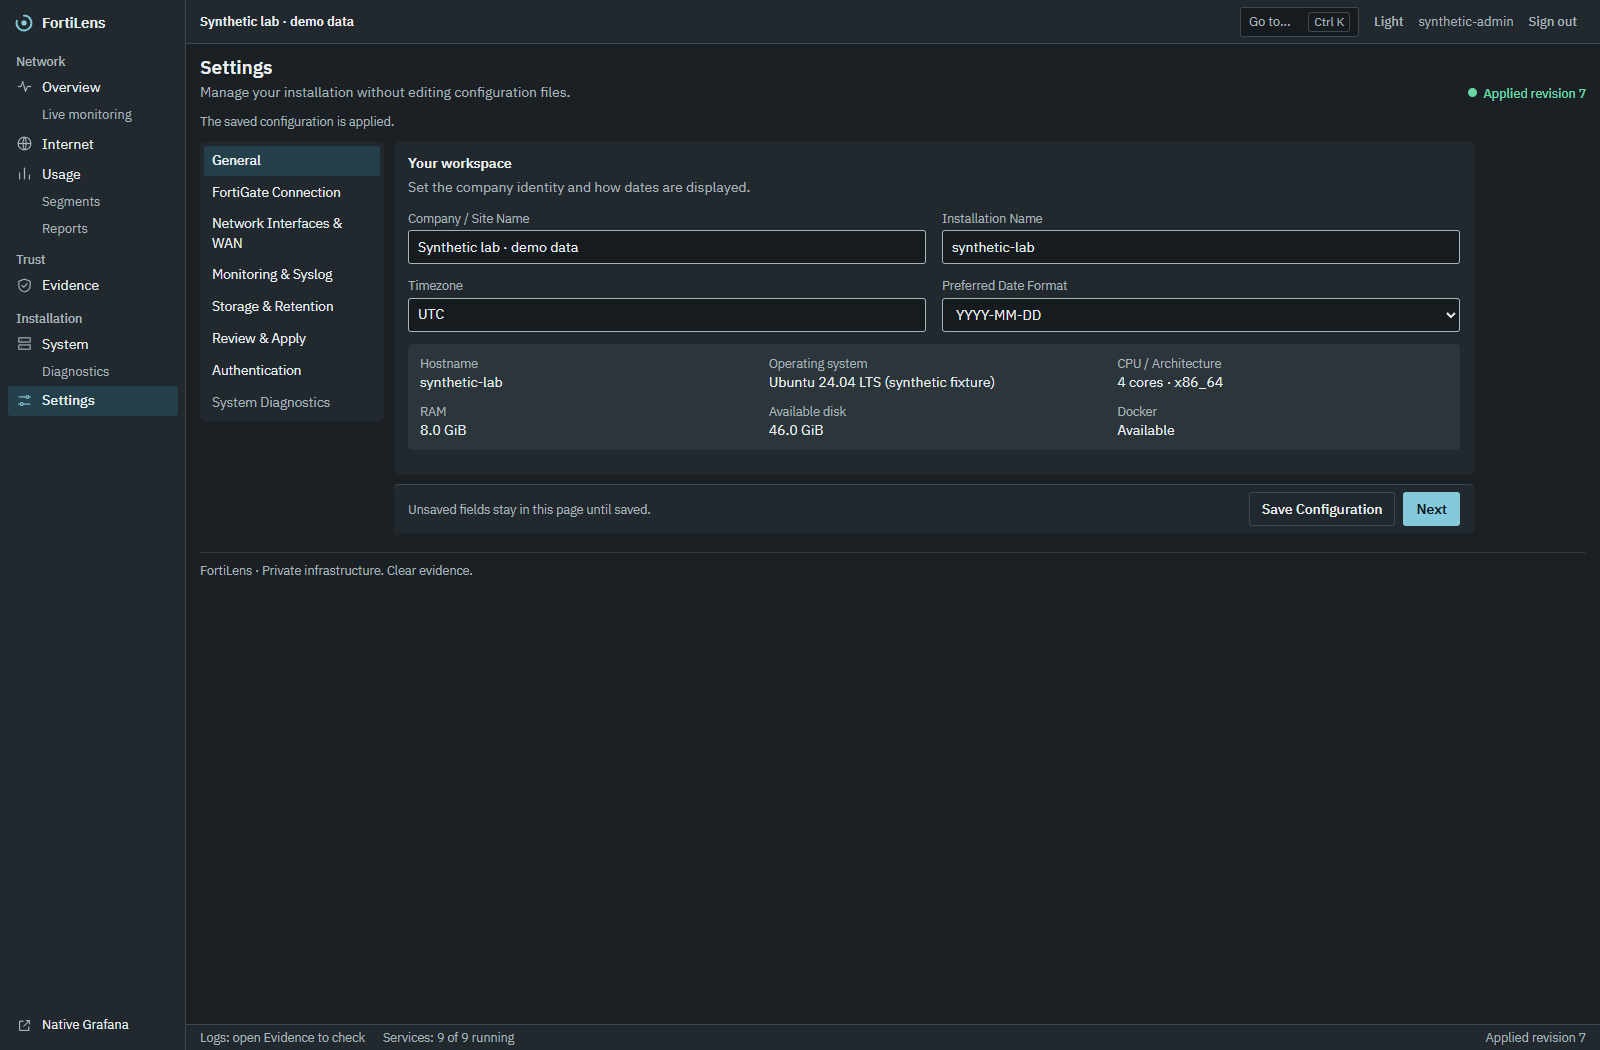
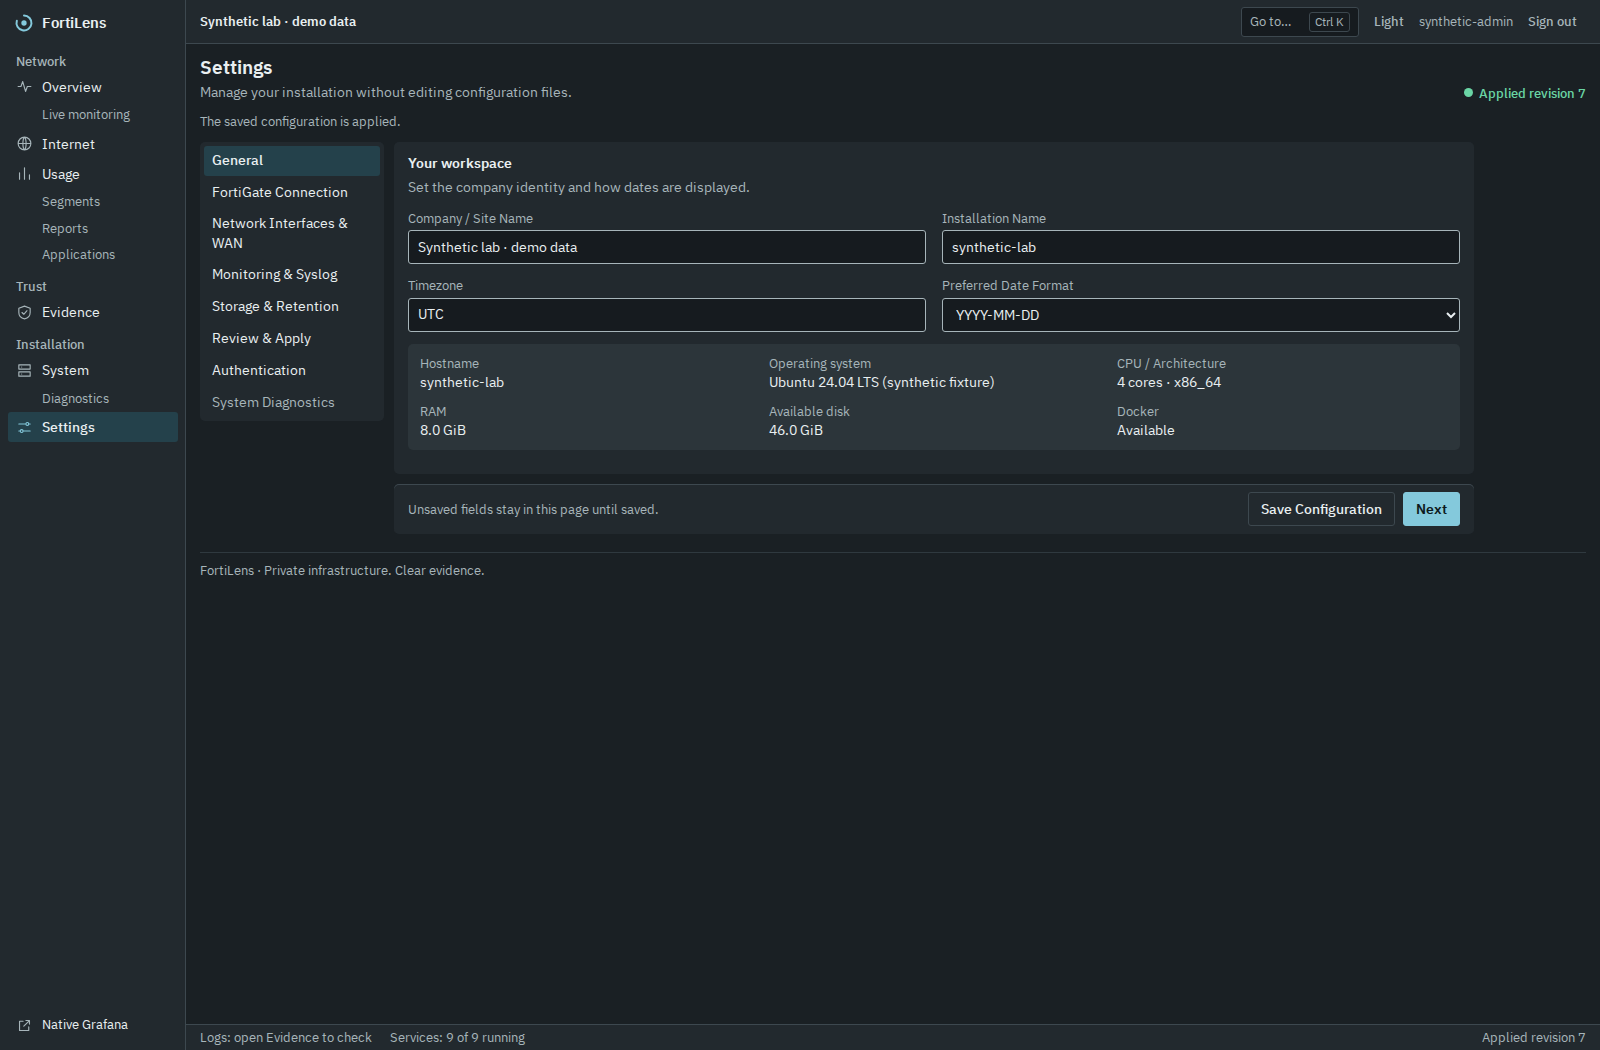
Refresh README, roadmap and screenshots for Applications
- README answers "which applications" and lists This year; application
  usage is no longer described as planned. Compact storage wording matches
  the current default for new databases.
- Roadmap marks application usage shipped and repository settings in place.
- Screenshot fixtures add Applications and the interface inventory and use
  the VLAN key format the engine produces; all captures are regenerated and
  16-applications.png is added (synthetic data only).
- A failed Applications request shows its error again instead of throwing
  on a removed panel.
- Add a code of conduct; include it and the new capture in the full release.

diff --git a/portable/reporting.html b/portable/reporting.html
@@ -305,7 +305,7 @@ function riskKind(risk){return risk==='critical'||risk==='high'?'bad':risk==='el
 function appSelection(){const s=state.apps||(state.apps={});return s}
 function appsTitle(){const s=appSelection();return s.app!==undefined?(s.app||'Unidentified')+' — devices':s.category!==undefined?(s.category||'Uncategorized')+' — devices':'Devices'}
 function selectApplications(app,category){const s=appSelection();s.app=app;s.category=category;loadApplications()}
-async function loadApplications(){const sequence=state.appsSequence=(state.appsSequence||0)+1;const s=appSelection();let q;try{q=params()}catch(e){message(errorText(e));return}q.delete('search');if(s.app!==undefined)q.set('app',s.app);if(s.category!==undefined)q.set('category',s.category);try{const r=await api('/api/applications?'+q);if(sequence!==state.appsSequence||!state.auth)return;renderApplications(r)}catch(e){if(sequence!==state.appsSequence)return;for(const id of ['apps-body','categories-body','apps-devices-body'])$(id).replaceChildren();$('apps-empty').hidden=false;$('apps-devices').hidden=true;message(errorText(e))}}
+async function loadApplications(){const sequence=state.appsSequence=(state.appsSequence||0)+1;const s=appSelection();let q;try{q=params()}catch(e){message(errorText(e));return}q.delete('search');if(s.app!==undefined)q.set('app',s.app);if(s.category!==undefined)q.set('category',s.category);try{const r=await api('/api/applications?'+q);if(sequence!==state.appsSequence||!state.auth)return;renderApplications(r)}catch(e){if(sequence!==state.appsSequence)return;for(const id of ['apps-body','categories-body','apps-chart','apps-stats'])$(id).replaceChildren();$('apps-empty').hidden=false;message(errorText(e))}}
 const appColors=['#84c9dc','#6ad5a5','#efc35c','#ff9087','#b39ddb','#f48fb1','#90a4ae','#ffb74d','#80cbc4','#c5e1a5'];
 const categoryNames={unscanned:'Not inspected',unknown:'Unknown category'};
 function percent(part,whole){return whole?(100*part/whole).toFixed(part/whole<0.1?1:0)+'%':'—'}

diff --git a/tools/release.py b/tools/release.py
@@ -50,6 +50,7 @@ PUBLIC_FILES = (
     ".github/workflows/release.yml",
     "AGENTS.md",
     "CHANGELOG.md",
+    "CODE_OF_CONDUCT.md",
     "CONTRIBUTING.md",
     "LICENSE",
     "README.md",
@@ -118,6 +119,7 @@ PUBLIC_FILES = (
     "docs/design/screenshots/12-sign-in.png",
     "docs/design/screenshots/14-overview-narrow.png",
     "docs/design/screenshots/15-usage-narrow.png",
+    "docs/design/screenshots/16-applications.png",
     "tools/release.py",
     "tools/check_repository.py",
     "tools/capture_screenshots.cjs",

diff --git a/README.md b/README.md
@@ -37,8 +37,9 @@ your own server, with your own credentials and data.
 |---|---|
 | Are my Internet links healthy, and were they healthy earlier? | **Overview** and **Internet** show SLA state, latency, jitter, packet loss, physical state and observed history. |
 | Which device used the most, in which direction? | **Usage** searches endpoints and opens each device's daily and monthly history. |
-| How much did each VLAN use? | **Segments** compares exact VLAN and interface mappings. |
-| What was the total for a period? | **Reports** covers Today, rolling 7 days, this month, recent 5 minutes or a custom range. |
+| How much did each VLAN use? | **Segments** compares exact VLAN and interface mappings, and names VLANs with no received records. |
+| Which applications used the Internet, and which devices used them? | **Applications** groups recorded usage by FortiGate Application Control label and category, with GenAI and risk filters. |
+| What was the total for a period? | **Reports** covers Today, rolling 7 days, this month, this year, recent 5 minutes or a custom range. |
 | Can I trust these numbers? | **Evidence** shows collection gaps, pending counters and identity limits. |
 | What is happening right now, in detail? | **Live monitoring** opens the native Grafana dashboard. |
 | Is the installation itself working? | **System**, **Diagnostics** and **Settings** cover services, collection and reviewed configuration changes. |
@@ -47,7 +48,11 @@ Usage figures come from received accounting records. Missing records never becom
 zero traffic or a confirmed outage, and totals are not complete billing figures.
 
 <details>
-<summary>See Usage, Reports and Internet screenshots</summary>
+<summary>See Applications, Usage, Reports and Internet screenshots</summary>
+
+![Applications showing labelled usage, the largest named applications and filters](docs/design/screenshots/16-applications.png)
+
+*Applications: usage by Application Control label, with protocol-only traffic kept apart. Shipped UI with synthetic fixtures.*
 
 ![Usage with a selected device and its recorded history](docs/design/screenshots/04-usage-docked.png)
 
@@ -74,8 +79,9 @@ want link health and device or VLAN usage without sending data to a third party.
 **Not a fit today:**
 
 - Several firewalls in one installation. Use a separate installation for each.
-- Security-event analytics, or website and application analytics. These are
-  [planned](ROADMAP.md), not shipped.
+- Security-event analytics, or website and domain analytics. These are
+  [planned](ROADMAP.md), not shipped. Application usage is shipped and relies on
+  FortiGate Application Control labels in the traffic logs.
 - Certified billing, or complete traffic capture.
 - High availability or multiple writers.
 - ARM hosts. Deployed monitoring targets Linux/amd64.
@@ -172,7 +178,7 @@ and [management architecture](docs/architecture/MANAGEMENT_ARCHITECTURE.md).
 
 ## Also included
 
-- [Optional compact accounting storage](docs/architecture/COMPACT_ACCOUNTING.md): a verified offline copy that reduces ledger size. Never automatic.
+- [Compact accounting storage](docs/architecture/COMPACT_ACCOUNTING.md): new databases use compact storage; existing ones can be converted as a verified offline copy, never automatically.
 - [Optional alert candidates](docs/operations/OPTIONAL_ALERTS.md): paused WAN, performance and collection rules that leave existing notifications alone.
 - [Read-only diagnostics](docs/operations/TROUBLESHOOTING.md): tell failed collection, old samples, missing logs and authentication problems apart.
 - [Upgrades from v0.1.0](docs/operations/UPGRADE.md): a reviewed migration with hash-guarded rollback.
@@ -189,7 +195,8 @@ full Alloy → Loki → accounting → Prometheus path, including replay and res
 FortiOS compatibility reports, sanitized API fixtures, accounting edge cases and
 documentation fixes are especially useful. Read the
 [contribution guide](CONTRIBUTING.md) or
-[open an issue](https://github.com/Rafattitas/fortilens/issues/new/choose). If
+[open an issue](https://github.com/Rafattitas/fortilens/issues/new/choose), and
+follow the [code of conduct](CODE_OF_CONDUCT.md). If
 FortiLens helps you, a star makes it easier for other network engineers to find.
 
 ## Security and license

diff --git a/ROADMAP.md b/ROADMAP.md
@@ -18,6 +18,9 @@ Linux/amd64 installation.
 - Current-source Web Setup & Settings, independent management/helper services,
   reviewed configuration apply/rollback and protected native monitoring/reports.
 - Read-only diagnostics and optional paused alert candidates.
+- Application usage from FortiGate Application Control labels.
+- Compact accounting storage with a three-day raw ledger by default, and pruning
+  of the oldest raw days instead of stopping at the storage limit.
 
 The published v0.2.0 portable distribution predates web management and the unified
 console. See [release preparation](docs/development/RELEASING.md) and the
@@ -25,8 +28,9 @@ console. See [release preparation](docs/development/RELEASING.md) and the
 
 ## Milestone 1 — Repository professionalization
 
-Status: prepared for review; publication and repository-policy changes remain
-maintainer actions.
+Status: in place. `main` is protected (pull requests, all CI checks, no force
+push or deletion), Dependabot security updates are on, and merged branches are
+deleted. Publishing releases remains a maintainer action.
 
 - Clear contribution/documentation navigation and sanitized issue/PR templates.
 - Reproducible lint, incremental formatting, coverage and dependency checks.
@@ -62,12 +66,15 @@ Status: planned extensions; day/week/month/custom reports already exist.
 
 ## Milestone 4 — Website and application analytics
 
-Status: planned; not currently a shipped analytics capability.
+Status: application usage shipped on `main`; website and domain analytics planned.
 
-- Evaluate available log fields and lawful, minimized retention requirements.
-- Design top-domain/application and per-device breakdowns with source coverage
-  and identity limits visible.
-- Measure storage/query cost before adding historical analytics.
+- Shipped: usage by FortiGate Application Control label and category, the devices
+  that used each application, GenAI and risk filters, daily history, and
+  protocol-only labels (QUIC, SSL/TLS) kept apart from named applications. Labels
+  never enter event identities, so accounting totals are unchanged.
+- Planned: top-domain breakdowns from web-filter or DNS fields, with lawful,
+  minimized retention and visible source coverage.
+- Planned: measure storage and query cost before keeping per-domain history.
 
 ## Milestone 5 — Security analytics
 

diff --git a/CODE_OF_CONDUCT.md b/CODE_OF_CONDUCT.md
@@ -1,0 +1,39 @@
+# Code of conduct
+
+FortiLens is maintained by volunteers for network engineers and administrators.
+Everyone who takes part in issues, pull requests, reviews and discussions is
+expected to help keep that work respectful and useful.
+
+## Expected behaviour
+
+- Be considerate and patient, including with people new to FortiGate,
+  monitoring or open source.
+- Discuss the work, not the person. Disagree with evidence and explain why.
+- Accept that maintainers may decline changes that do not fit the project's
+  scope, accounting contract or security boundaries.
+- Share only sanitized evidence. Never post tokens, passwords, unredacted logs,
+  device configurations or other people's personal data.
+
+## Unacceptable behaviour
+
+- Harassment, insults, threats or discriminatory language of any kind.
+- Publishing someone's private information without their permission.
+- Sexualised language or imagery, and unwelcome personal attention.
+- Deliberately disruptive behaviour, such as trolling or repeated off-topic
+  posts after a request to stop.
+
+## Reporting and enforcement
+
+Report a problem privately to the maintainer through
+[GitHub private vulnerability reporting](https://github.com/Rafattitas/fortilens/security/advisories/new),
+choosing a title that starts with `Conduct:`, or open an issue asking for a
+private contact route without repeating the details in public.
+
+The maintainer reviews every report, keeps the reporter's identity private where
+possible, and may edit or remove contributions, warn, or block participants who
+break this code. Decisions take the situation and any earlier behaviour into
+account.
+
+This code applies in all project spaces and when someone represents the project
+elsewhere. It is inspired by the
+[Contributor Covenant](https://www.contributor-covenant.org/).

diff --git a/CHANGELOG.md b/CHANGELOG.md
@@ -36,6 +36,15 @@
 - The VLAN filter lists every VLAN the FortiGate reports, and the segment table
   names VLANs with no received records, with a hint to check policy logging.
 - Summary cards are centred, and the application filters align on one row.
+- A failed Applications request shows its error message again; the error path
+  referred to a panel that no longer exists.
+
+### Repository
+
+- README, roadmap and screenshots describe the Applications view. Screenshot
+  fixtures cover Applications and the interface inventory, and use the VLAN key
+  format the accounting engine produces.
+- Added a code of conduct.
 
 ### Smaller accounting storage for usage monitoring
 

diff --git a/docs/design/screenshots/README.md b/docs/design/screenshots/README.md
@@ -27,6 +27,7 @@ release archives. The captures here use `management/static/` and the actual
 | [Sign in](12-sign-in.png) | Signed-out form with a synthetic username. |
 | [Narrow Overview](14-overview-narrow.png) | 375px viewport. |
 | [Narrow Usage](15-usage-narrow.png) | 375px viewport scrolled to the first endpoint. |
+| [Applications](16-applications.png) | Labelled usage, largest named applications and filters, with generic example application names. |
 
 ## Regenerate
 
